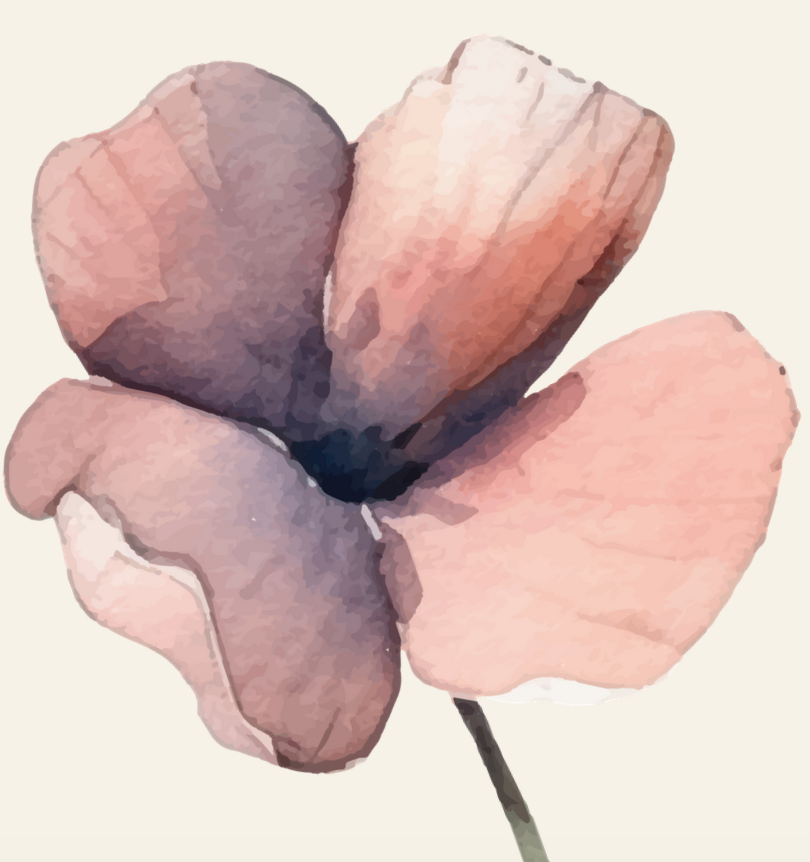
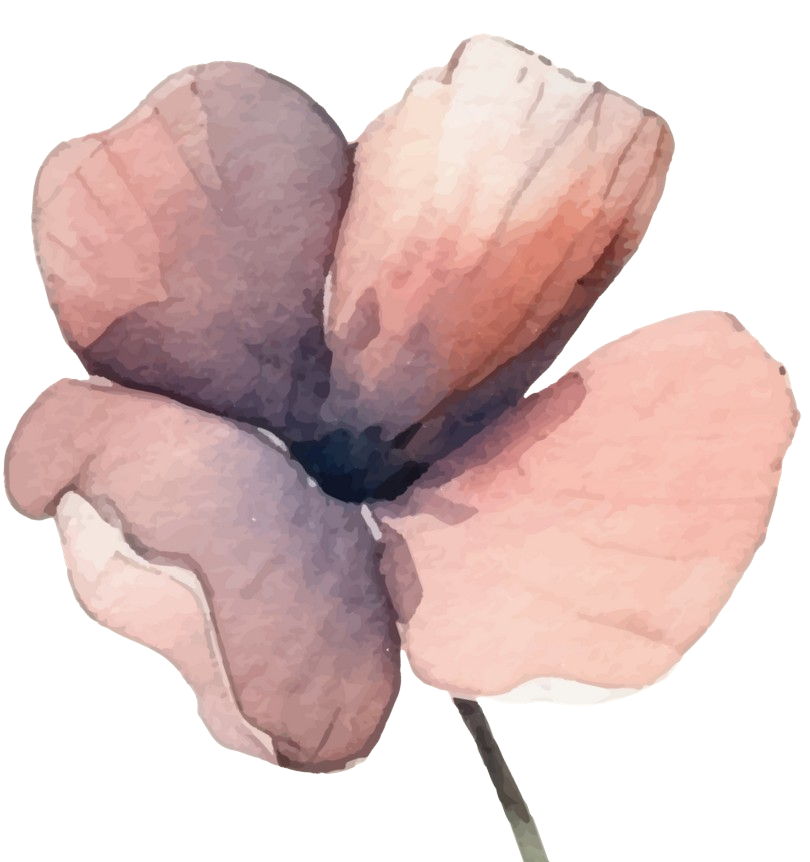
main-final upload

diff --git a/style-main.css b/style-main.css
@@ -1,0 +1,101 @@
+/* Define variables for easy customization */
+:root {
+    --background-color: #e6e2d7;
+    --title-font: 'Petit Formal Script', cursive;
+    --text-font: 'Cormorant SC', serif;
+    --text-color-green: #557c70;
+}
+
+* {
+    margin: 0;
+    padding: 0;
+    box-sizing: border-box;
+}
+
+body {
+    background-color: var(--background-color);
+    display: flex;
+    align-items: center;
+    justify-content: center; 
+    height: 100vh;
+    font-family: var(--text-font);
+    color: black;
+}
+
+.container {
+    text-align: center;
+    color: var(--text-color-green)
+}
+
+.main-image {
+    width: 80%;
+    max-width: 500px;
+    height: auto;
+    margin-bottom: 20px;
+}
+
+.title {
+    font-family: var(--title-font);
+    font-size: 6em;
+    font-weight: 200;
+    margin-bottom: 80px;
+}
+
+.date {
+    font-size: 1.8em;
+    margin-bottom: 40px;
+}
+
+.code-box {
+    font-size: 1.8em;
+}
+
+.takje-links {
+    position: absolute;
+    bottom: 0;
+    left: 0;
+    width: auto; /* Adjust width or height as needed */
+    height: auto;
+    max-width: 80%; /* Optional: Control the size */
+    max-height: 80%; /* Optional: Control the size */
+    margin-bottom: 0; /* Optional: Add spacing from the edge */
+}
+
+.bloem-rechts {
+    position: absolute;
+    bottom: 0;
+    right: 0px;
+    width: auto; /* Adjust width or height as needed */
+    height: auto;
+    max-width: 40%; /* Optional: Control the size */
+    max-height: 40%; /* Optional: Control the size */
+    margin-bottom: 0; /* Optional: Add spacing from the edge */
+}
+
+.redirect-form {
+    margin-top: 20px;
+    text-align: center;
+}
+
+#redirect-input {
+    padding: 10px;
+    font-size: 1em;
+    border: 1px solid #ccc;
+    border-radius: 5px;
+    width: 200px;
+}
+
+button {
+    padding: 10px 20px;
+    font-size: 1em;
+    border: none;
+    background-color: var(--text-color-green);
+    color: white;
+    cursor: pointer;
+    border-radius: 5px;
+    margin-left: 10px;
+}
+
+button:hover {
+    background-color: #8db2a7;
+}

diff --git a/index-final.html b/index-final.html
@@ -5,7 +5,7 @@
     <meta name="viewport" content="width=device-width, initial-scale=1.0">
     <meta name="description" content="A simple coming soon page for Lisa & Jarno's website">
     <title>Lisa & Jarno</title>
-    <link rel="stylesheet" href="styles.css">
+    <link rel="stylesheet" href="style-main.css">
     <link href="https://fonts.googleapis.com/css2?family=Ferly&family=Cormorant+SC:wght@400&display=swap" rel="stylesheet">
     <link rel="preconnect" href="https://fonts.googleapis.com">
     <link rel="preconnect" href="https://fonts.gstatic.com" crossorigin>
@@ -13,12 +13,25 @@
     <link rel="icon" href="images/favicon-32.png" type="image/png">
 </head>
 <body>
+    <img src="images/takje-main.png" alt="takje-main" class="takje-links">
+    <img src="images/bloem-roze.png" alt="takje-main" class="bloem-rechts">
     <div class="container">
-        <img src="images/takje-main.png" alt="takje-main" class="main-image">
         <h1 class="title">Lisa & Jarno</h1>
         <p class="date">23.05.2025</p>
-        <p class="coming-soon">Coming Soon</p>
+        <form class="redirect-form" onsubmit="redirectToPage(event)">
+            <input type="text" id="redirect-input" placeholder="Vul hier uw code in" required>
+            <button type="submit">Go</button>
+        </form>
     </div>
+
+    <script>
+        function redirectToPage(event) {
+            event.preventDefault();
+            const userInput = document.getElementById('redirect-input').value;
+            const url = `https://lisaenjarno.nl/${encodeURIComponent(userInput)}`;
+            window.location.href = url;
+        }
+    </script>
 </body>
 </html>
 
